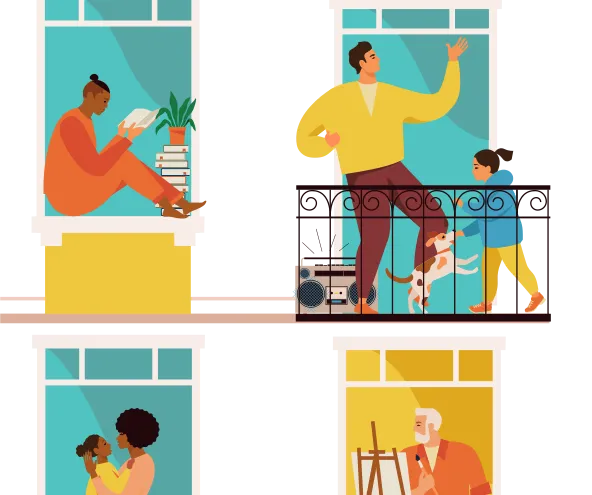
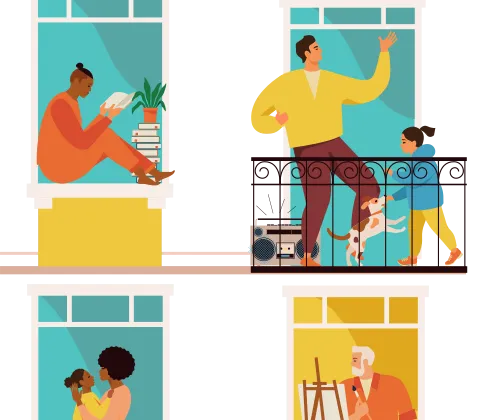
fix: retours page collectivités Florence et Caroline

diff --git a/src/components/shared/page/SimplePage.tsx b/src/components/shared/page/SimplePage.tsx
@@ -77,7 +77,7 @@ const publicNavigationMenu: NavigationItem[] = [
     title: 'Copropriétaires',
     children: [
       {
-        title: 'Tester votre adresse',
+        title: 'Testez votre adresse',
         href: '/',
       },
       {
@@ -114,16 +114,16 @@ const publicNavigationMenu: NavigationItem[] = [
         href: '/collectivites-et-exploitants',
       },
       {
-        title: 'Vous souhaitez communiquer',
+        title: 'Communiquez sur votre réseau',
         href: '/collectivites-et-exploitants#communiquer',
       },
       {
-        title: 'Vous avez besoin de développer votre réseau ',
-        href: '/collectivites-et-exploitants#developper',
+        title: 'Trouvez des prospects',
+        href: '/collectivites-et-exploitants#prospecter',
       },
       {
-        title: 'Vous cherchez à prospecter',
-        href: '/collectivites-et-exploitants#prospecter',
+        title: 'Développez votre réseau grâce aux données',
+        href: '/collectivites-et-exploitants#developper',
       },
     ],
   },

diff --git a/src/components/ui/Box.tsx b/src/components/ui/Box.tsx
@@ -13,6 +13,7 @@ type StyleProps = {
   textColor?: CSSProperties['color'];
   fontWeight?: 'light' | 'regular' | 'bold' | 'heavy';
   borderRadius?: CSSProperties['borderRadius'];
+  minHeight?: CSSProperties['minHeight'];
 };
 
 const StyledBox = styled.div<StyleProps>`
@@ -35,6 +36,7 @@ const StyledBox = styled.div<StyleProps>`
         : `var(--${textColor})`
       : undefined};
   border-radius: ${({ borderRadius }) => borderRadius};
+  min-height: ${({ minHeight }) => minHeight};
 `;
 
 interface BoxProps
@@ -63,6 +65,7 @@ function Box(props: PropsWithChildren<BoxProps>) {
       backgroundColor={props.backgroundColor}
       textColor={props.textColor}
       borderRadius={props.borderRadius}
+      minHeight={props.minHeight}
       className={`${className ?? ''} ${
         props.fontWeight ? `fr-text--${props.fontWeight}` : ''
       } ${spacingsToClasses(props)}`}

diff --git a/src/pages/collectivites-et-exploitants.tsx b/src/pages/collectivites-et-exploitants.tsx
@@ -56,15 +56,14 @@ export default function CollectivitesEtExploitantsPage() {
                 <Image
                   src="/img/collectivite_header.webp"
                   alt=""
-                  width={592}
-                  height={495}
+                  width={502}
+                  height={420}
                   priority
-                  className="fr-responsive-img"
                 />
               </Box>
 
               <Box flex py="3w">
-                <Heading as="h1" color="blue-france" mt="1w">
+                <Heading as="h1" size="h2" color="blue-france" mt="1w">
                   Valorisons les réseaux de chaleur, levier de la transition
                   énergétique
                 </Heading>

diff --git a/src/pages/index.tsx b/src/pages/index.tsx
@@ -46,10 +46,9 @@ export default function Home() {
                 <Image
                   src="/img/copro_header.webp"
                   alt=""
-                  width={592}
-                  height={398}
+                  width={624}
+                  height={420}
                   priority
-                  className="fr-responsive-img"
                 />
               </Box>
 
